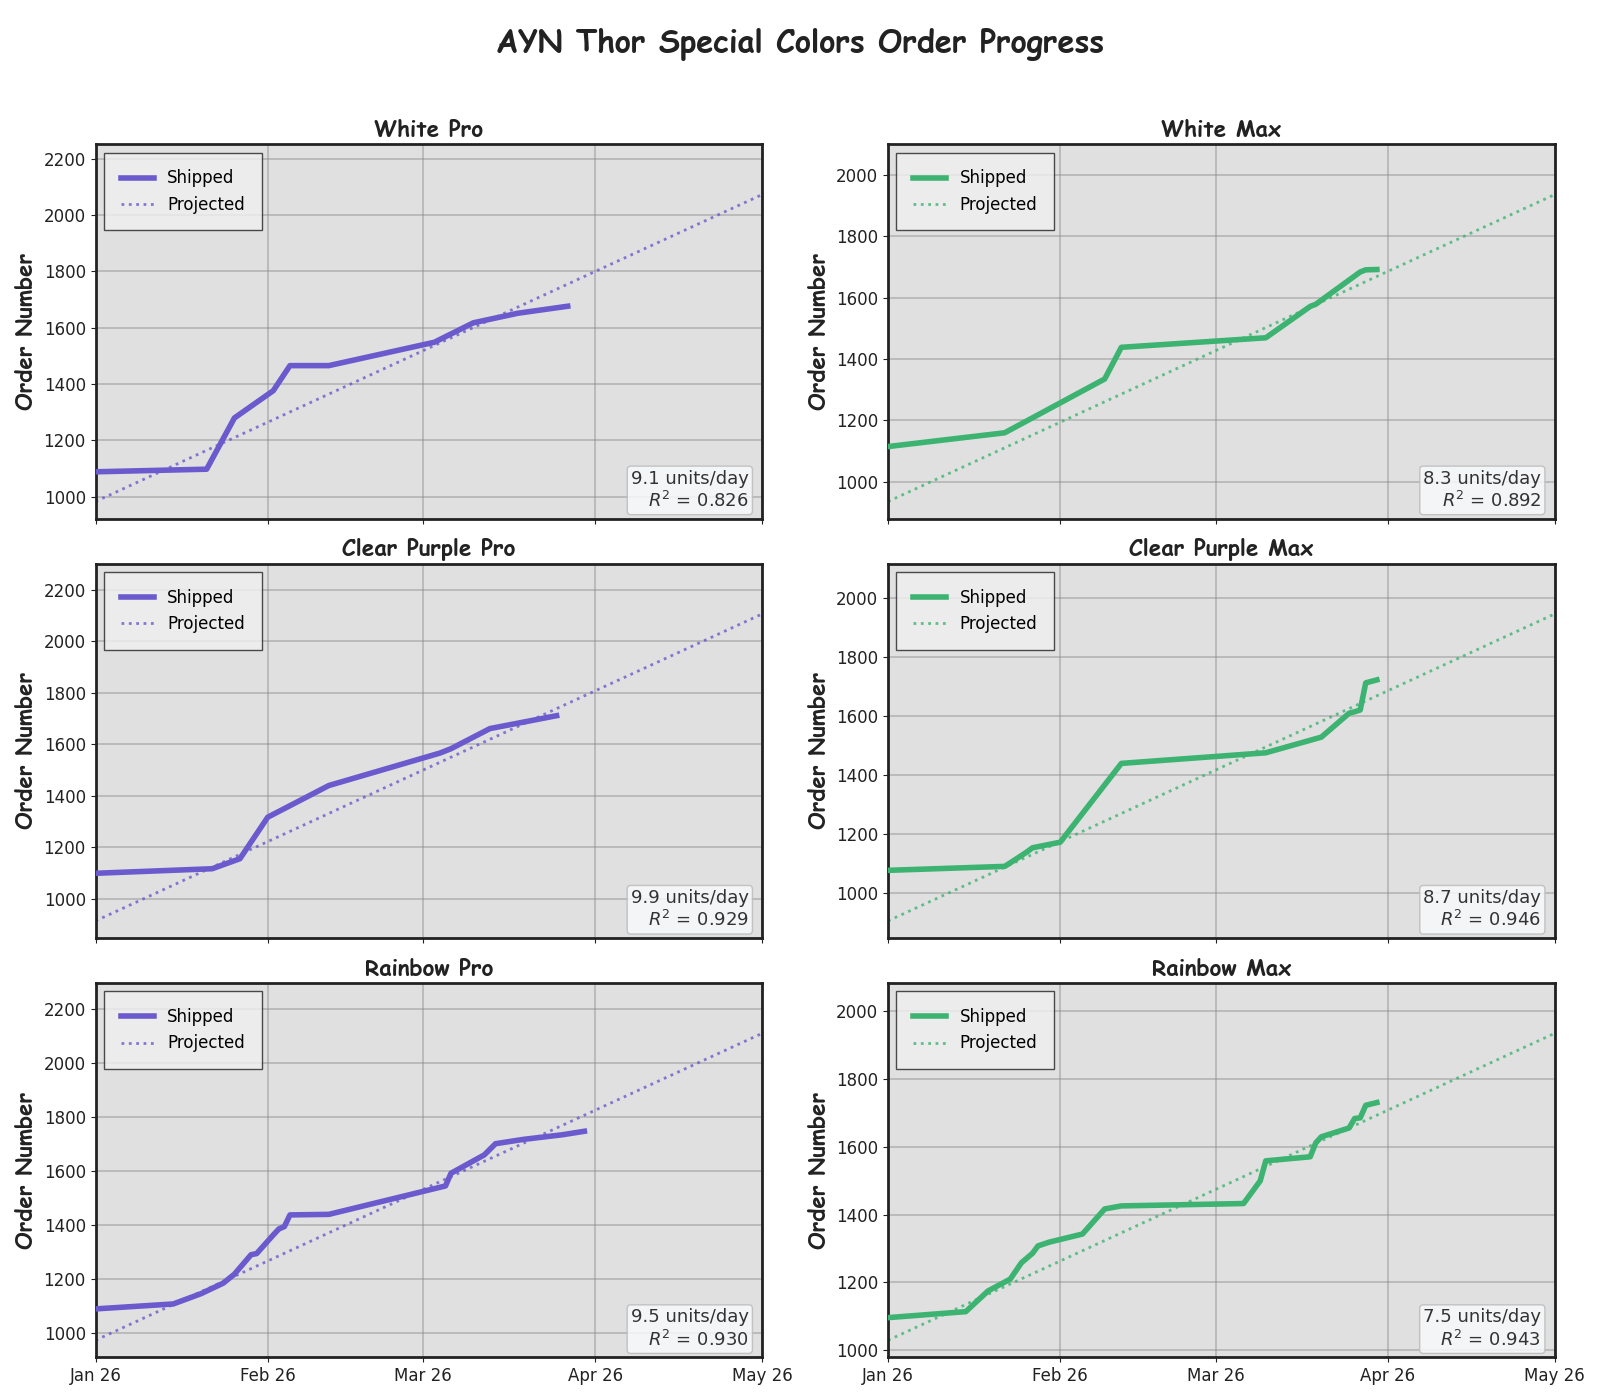
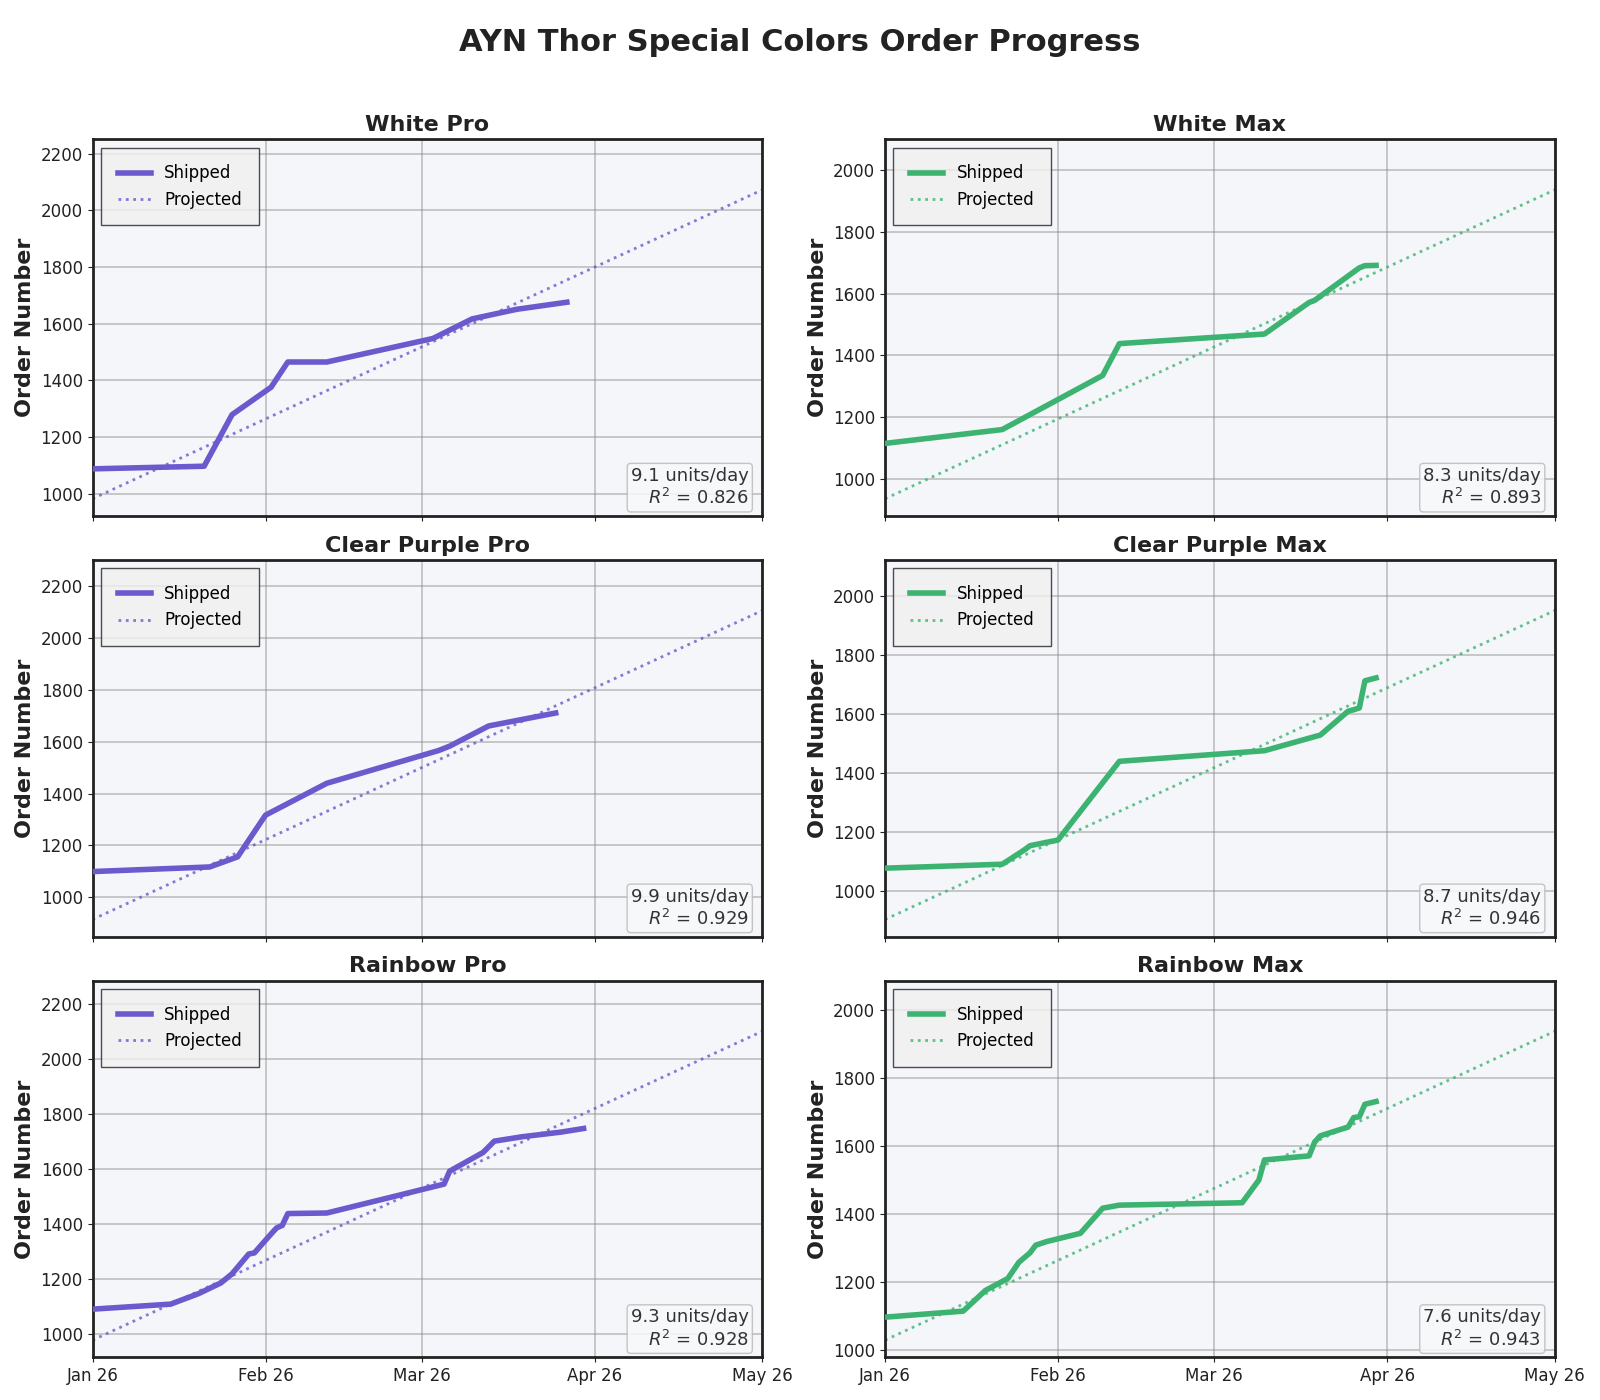
fixing graph colors

diff --git a/analysis.py b/analysis.py
@@ -9,11 +9,11 @@ def format_ax(ax, title=None, ylabel=None):
     ax.xaxis.set_major_locator(mdates.MonthLocator())
     ax.xaxis.set_major_formatter(mdates.DateFormatter('%b %y'))
     if title:
-        ax.set_title(title, fontsize=16, fontweight='bold', color='#222', fontname='Comic Sans MS')
+        ax.set_title(title, fontsize=16, fontweight='bold', color='#222', fontname='DejaVu Sans')
     if ylabel:
-        ax.set_ylabel(ylabel, fontsize=16, fontweight='bold', color='#222', fontname='Comic Sans MS')
+        ax.set_ylabel(ylabel, fontsize=16, fontweight='bold', color='#222', fontname='DejaVu Sans')
     ax.grid(True, linestyle='-', linewidth=1.2, color='#888', alpha=0.5)
-    ax.set_facecolor('#E0E0E0')
+    ax.set_facecolor('#F5F6FA')  # Lighter, closer to white
     for spine in ax.spines.values():
         spine.set_linewidth(2)
         spine.set_color('#222')
@@ -123,7 +123,7 @@ def plot_shipping_progress(output_path=None):
     if num_colors == 1:
         axes = [axes]
     plt.style.use('default')
-    fig.patch.set_facecolor('#F0F0F0')
+    fig.patch.set_facecolor('#f8f9fb')
     # Extend x-axis 21 days past last data
     start, end = get_month_range(df["date"], extend_days=21)
     for ax, color in zip(axes, colors):
@@ -154,7 +154,7 @@ def plot_shipping_progress(output_path=None):
                             fontsize=12,
                             fontweight='bold',
                             color=MODEL_COLORS[model],
-                            fontname='Comic Sans MS',
+                            fontname='DejaVu Sans',
                             bbox=dict(boxstyle='round,pad=0.2', fc='#F0F0F0', ec=MODEL_COLORS[model], lw=1)
                         )
         handles, labels = ax.get_legend_handles_labels()
@@ -163,11 +163,12 @@ def plot_shipping_progress(output_path=None):
         ax.legend(ordered_handles, ordered_labels, fontsize=12, frameon=True, fancybox=False, edgecolor='#222', facecolor='#F0F0F0', borderpad=1, loc='upper left')
         format_ax(ax, title=f"{color.title()}")
         ax.set_xlim(start, end)
-    fig.suptitle("AYN Thor Shipping Progress", fontsize=22, fontweight='bold', color='#222', fontname='Comic Sans MS')
-    fig.supylabel("Units Shipped", fontsize=16, fontweight='bold', color='#222', fontname='Comic Sans MS')
+    fig.suptitle("AYN Thor Shipping Progress", fontsize=22, fontweight='bold', color='#222', fontname='DejaVu Sans')
+    fig.supylabel("Units Shipped", fontsize=16, fontweight='bold', color='#222', fontname='DejaVu Sans')
     plt.tight_layout(rect=(0, 0, 1, 0.96))
     if output_path:
         plt.savefig(output_path)
+    plt.show()
 
 def plot_orders(model, color, output_path=None):
     df = get_df()
@@ -287,7 +288,7 @@ def plot_black_models(output_path=None):
         ax.legend(unique.values(), unique.keys(), fontsize=12, frameon=True, fancybox=False, edgecolor='#222', facecolor='#F0F0F0', borderpad=1, loc='upper left')
         if start is not None and end is not None:
             ax.set_xlim(start, end)
-    fig.suptitle("AYN Thor Black Models Order Progress", fontsize=22, fontweight='bold', color='#222', fontname='Comic Sans MS')
+    fig.suptitle("AYN Thor Black Models Order Progress", fontsize=22, fontweight='bold', color='#222', fontname='DejaVu Sans')
     plt.tight_layout(rect=(0, 0, 1, 0.96))
     if output_path:
         plt.savefig(output_path)
@@ -397,7 +398,7 @@ def plot_color_models(output_path=None):
             ax.legend(unique.values(), unique.keys(), fontsize=12, frameon=True, fancybox=False, edgecolor='#222', facecolor='#F0F0F0', borderpad=1, loc='upper left')
             if start is not None and end is not None:
                 ax.set_xlim(start, end)
-    fig.suptitle("AYN Thor Special Colors Order Progress", fontsize=22, fontweight='bold', color='#222', fontname='Comic Sans MS')
+    fig.suptitle("AYN Thor Special Colors Order Progress", fontsize=22, fontweight='bold', color='#222', fontname='DejaVu Sans')
     plt.tight_layout(rect=(0, 0, 1, 0.96))
     if output_path:
         plt.savefig(output_path)
